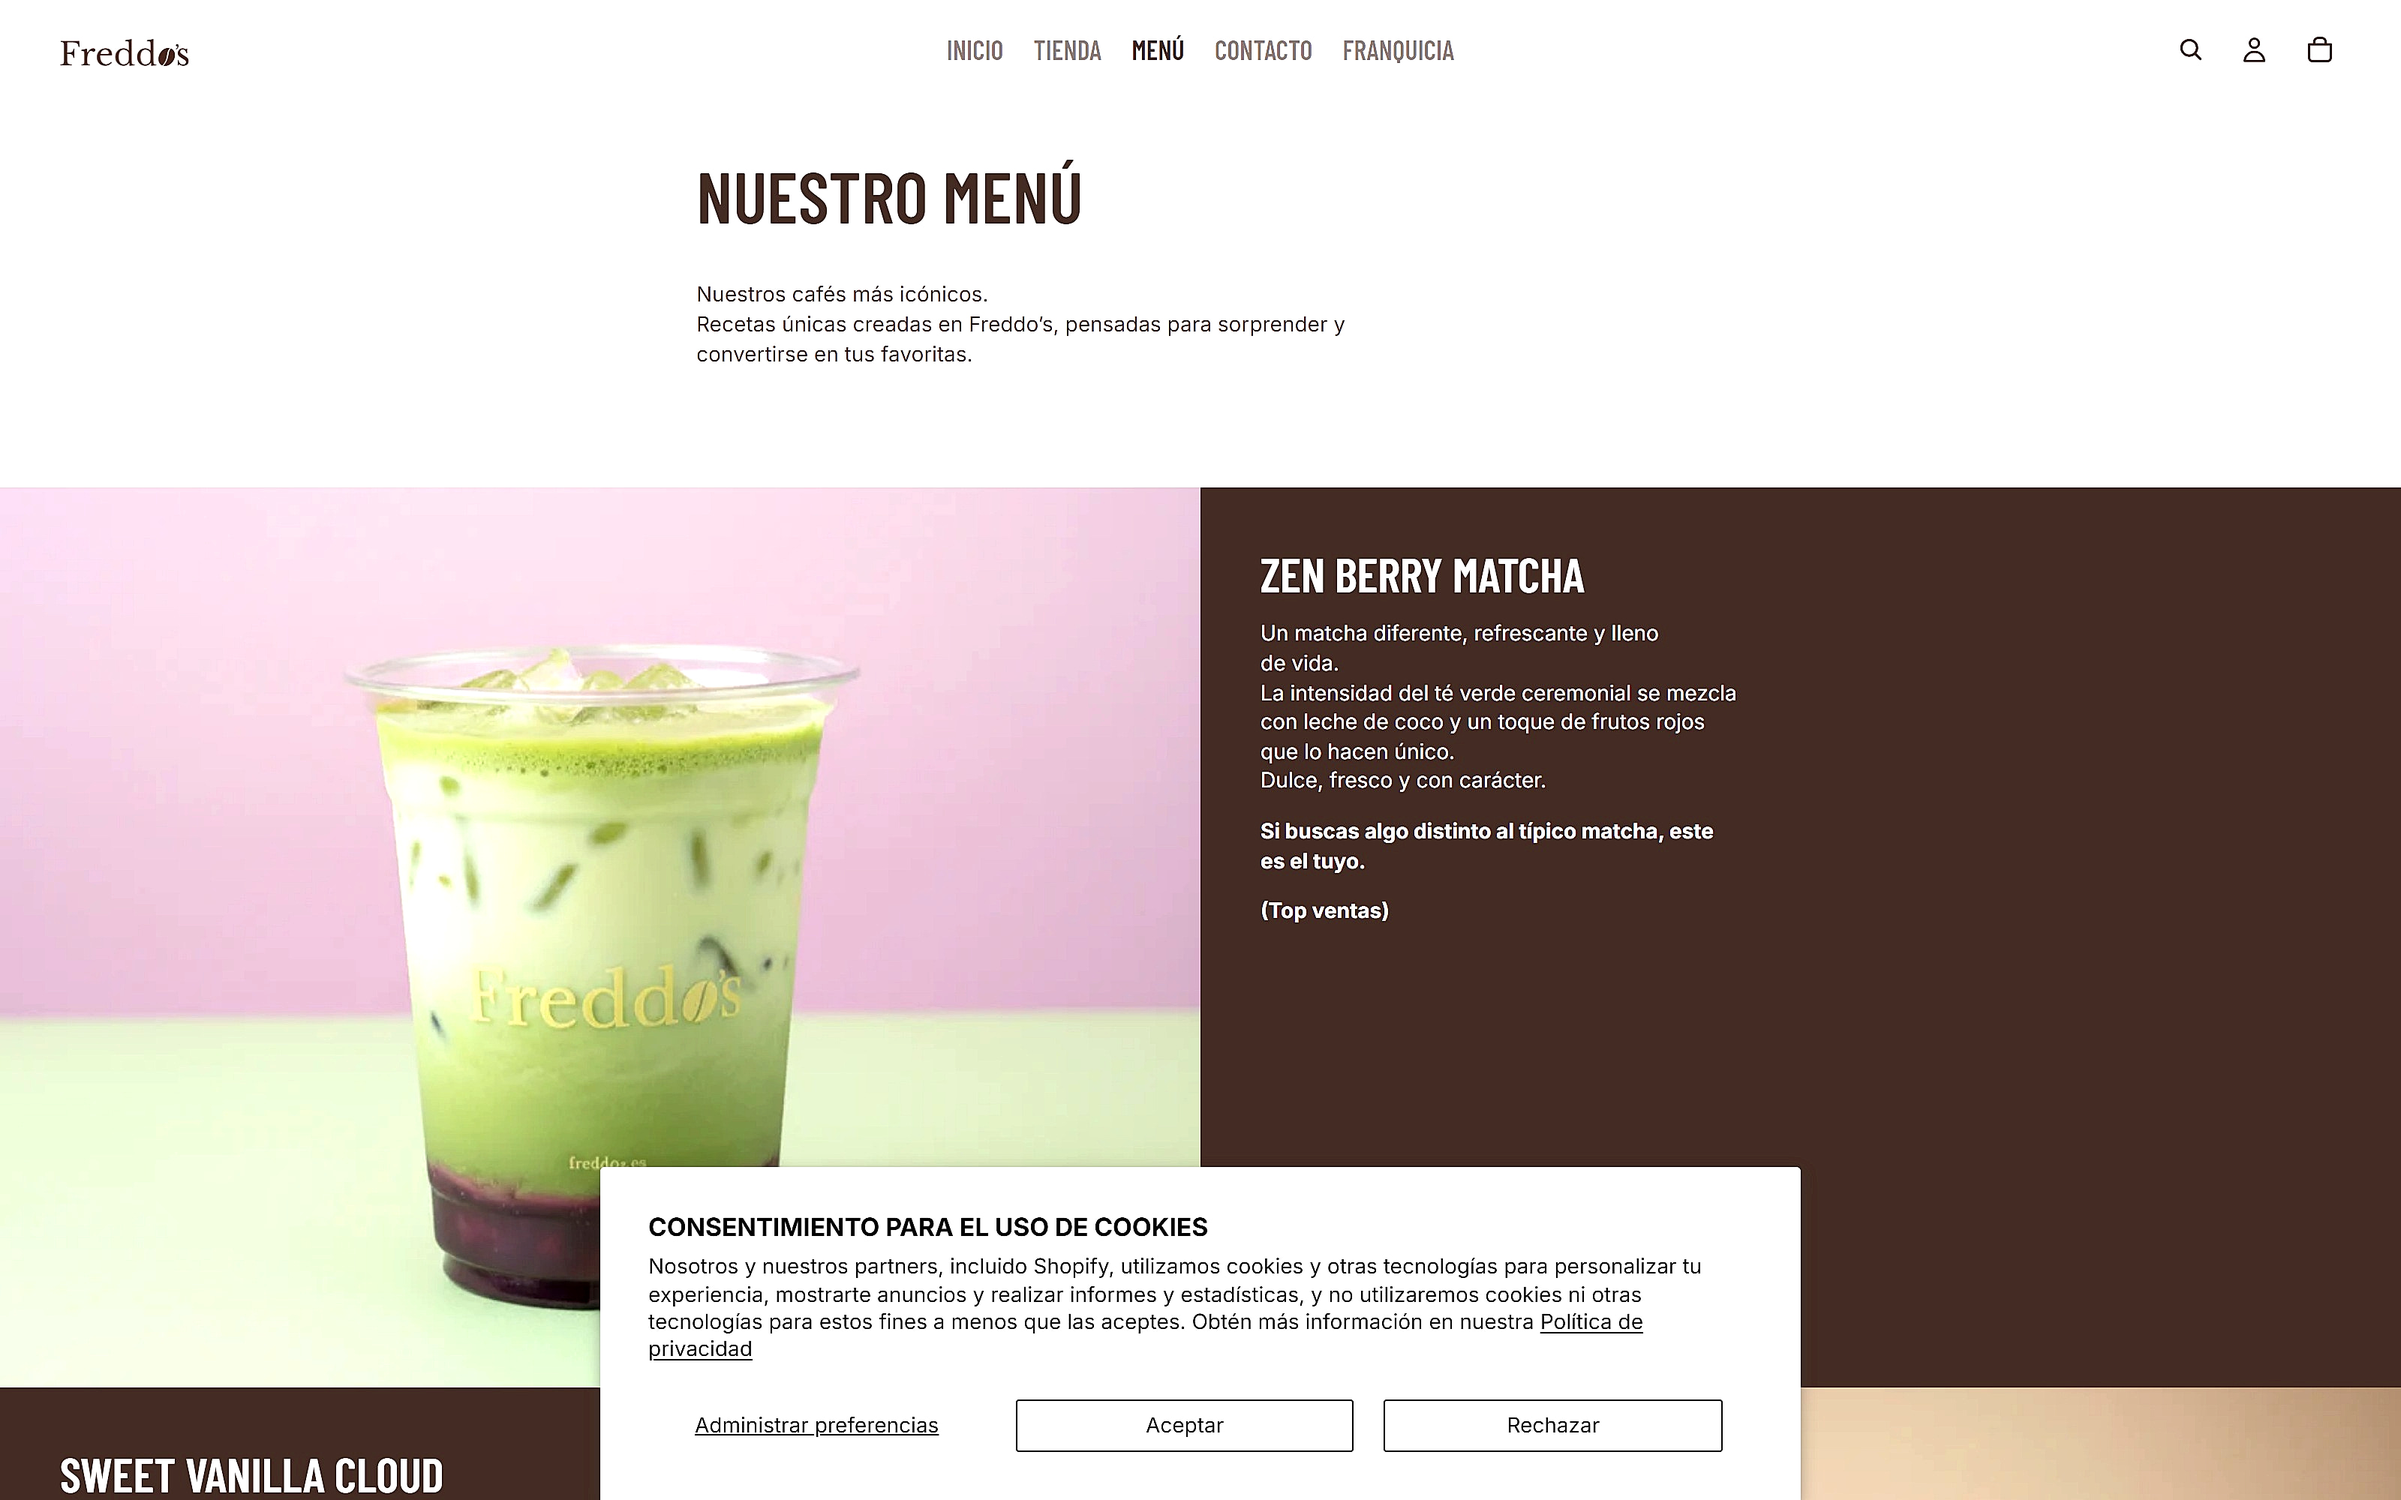
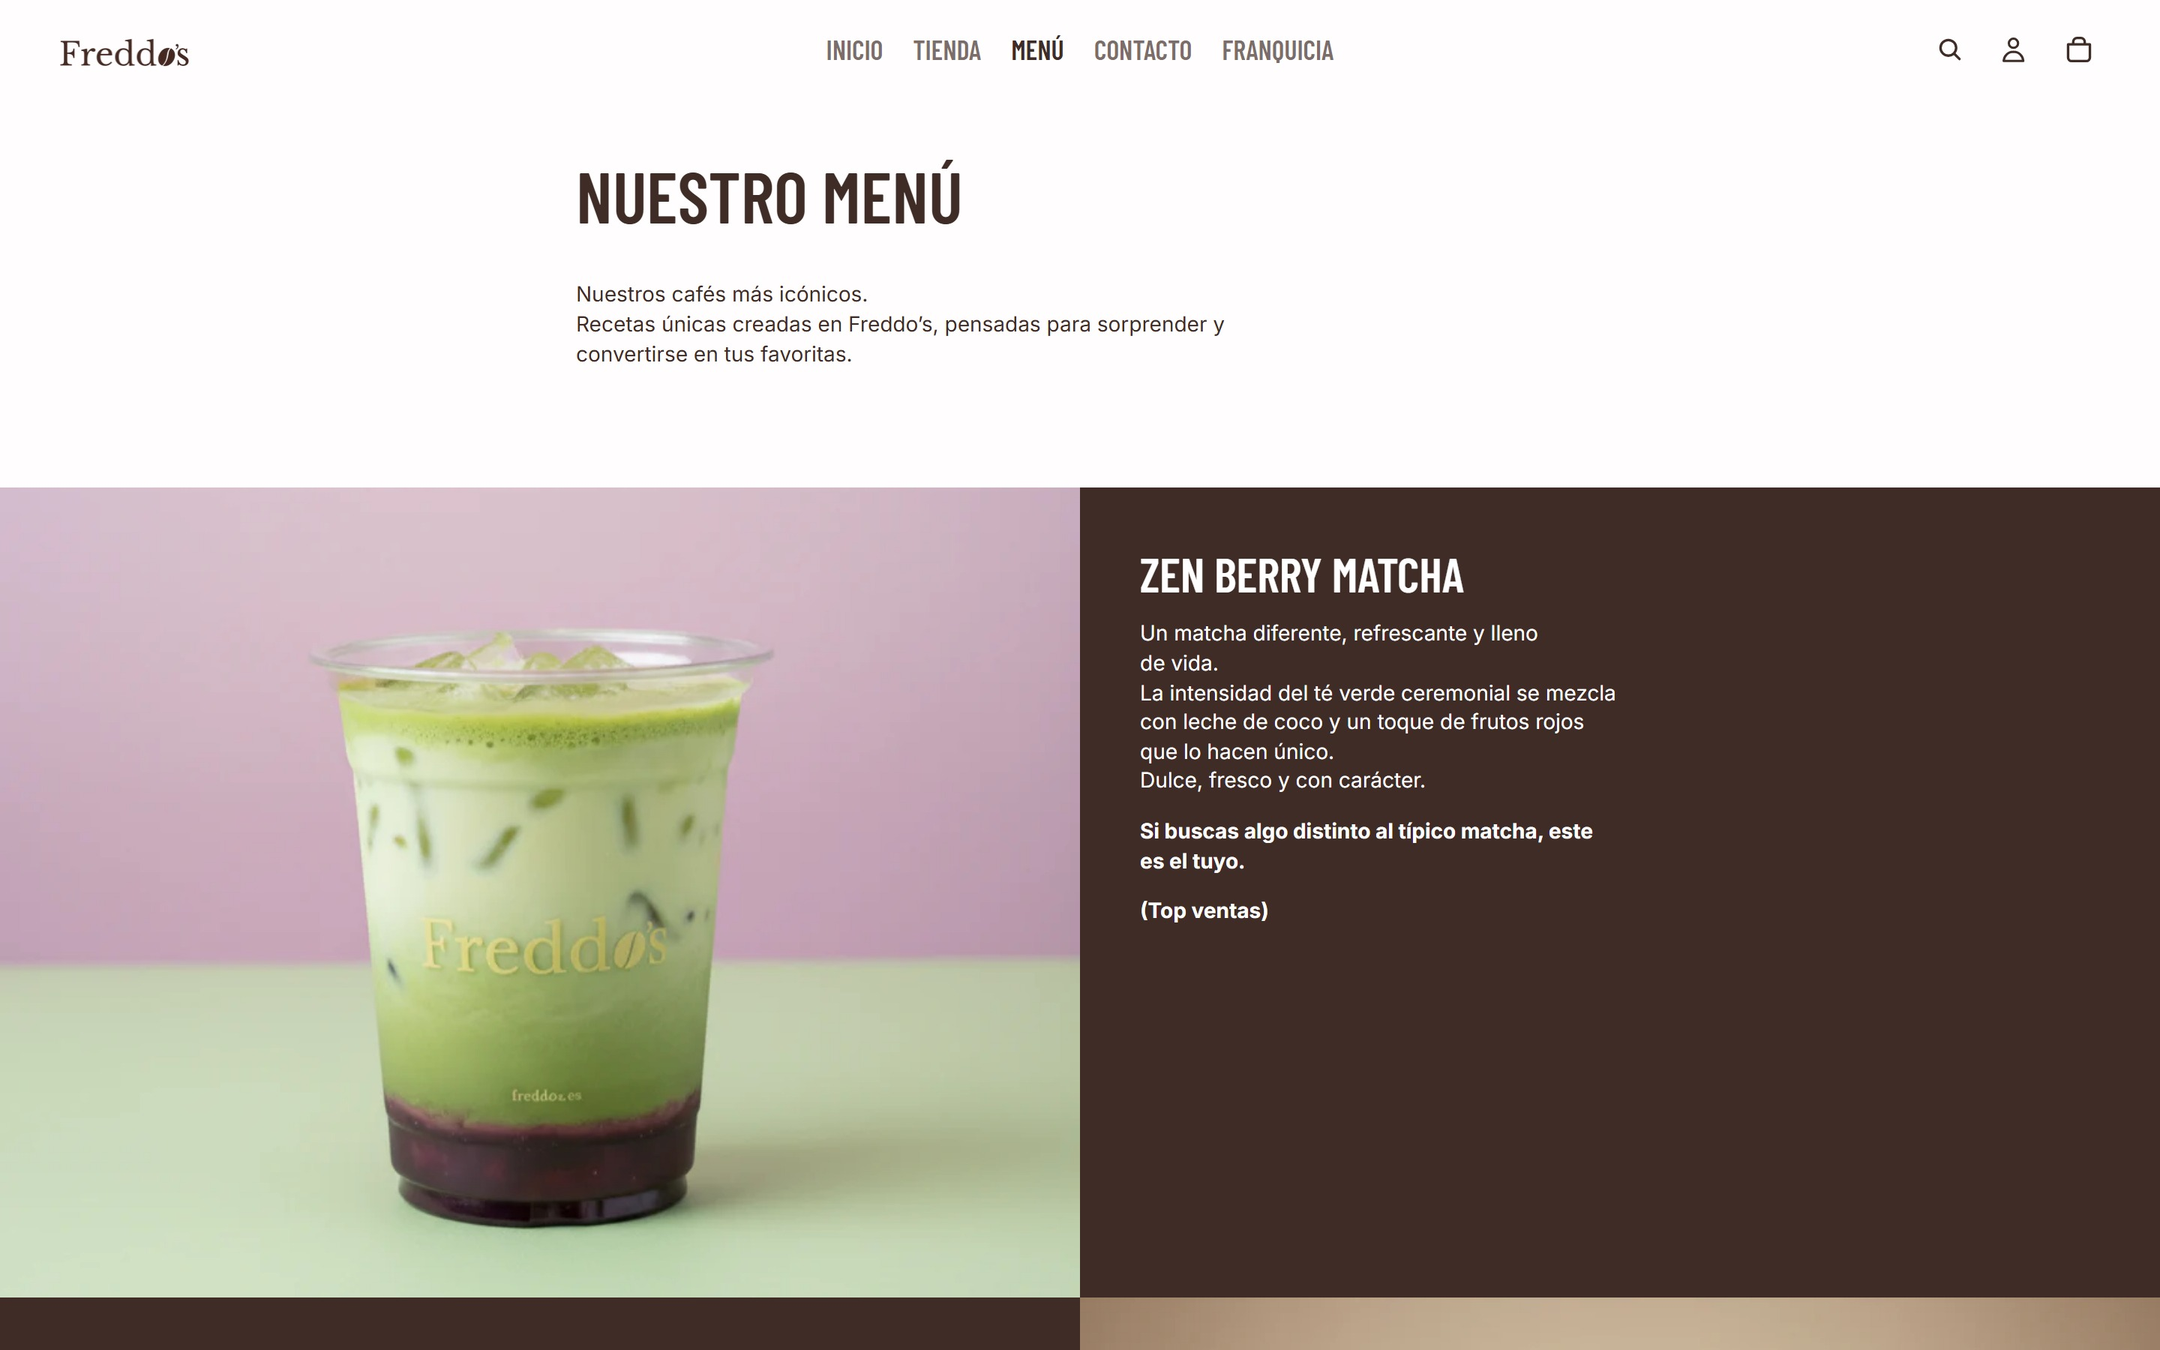
Stabilize Rafa and Freddos hero screen images.
Replace over-processed screenshots with clean captures and remove float animations and CSS filters that caused flicker.

diff --git a/src/styles.css b/src/styles.css
@@ -366,60 +366,24 @@
     padding-bottom: 0.15rem;
   }
 
-  /* Etusivu: Apple-tyylinen MacBook + iPhone, Freddos molemmissa */
+  /* Etusivu: Apple-tyylinen MacBook + iPhone, Freddos molemmissa — staattinen, ei float-animaatiota */
   .freddos-stage {
     perspective: 1400px;
   }
 
   .freddos-stage__laptop {
     transform: rotateY(-6deg) rotateX(4deg) rotateZ(-1.5deg);
-    animation: freddos-stage-float 7s ease-in-out infinite;
   }
 
   .freddos-stage__phone {
     transform: rotateY(6deg) rotateZ(-5deg);
     transform-origin: bottom center;
-    animation: freddos-stage-phone 7.5s ease-in-out infinite;
-  }
-
-  @keyframes freddos-stage-float {
-    0%,
-    100% {
-      transform: rotateY(-6deg) rotateX(4deg) rotateZ(-1.5deg) translateY(0);
-    }
-    50% {
-      transform: rotateY(-6deg) rotateX(4deg) rotateZ(-1.5deg) translateY(-6px);
-    }
-  }
-
-  @keyframes freddos-stage-phone {
-    0%,
-    100% {
-      transform: rotateY(6deg) rotateZ(-5deg) translateY(0);
-    }
-    50% {
-      transform: rotateY(6deg) rotateZ(-5deg) translateY(-3px);
-    }
   }
 
   @media (prefers-reduced-motion: reduce) {
     .freddos-stage__laptop,
     .freddos-stage__phone {
-      animation: none;
-    }
-  }
-
-  .websites-hero-laptop {
-    animation: websites-hero-float 7s ease-in-out infinite;
-  }
-
-  @keyframes websites-hero-float {
-    0%,
-    100% {
-      transform: translateY(0);
-    }
-    50% {
-      transform: translateY(-8px);
+      transform: none;
     }
   }
 
@@ -452,10 +416,6 @@
   }
 
   @media (prefers-reduced-motion: reduce) {
-    .websites-hero-laptop {
-      animation: none;
-    }
-
     .websites-dual-hero__left,
     .websites-dual-hero__right {
       transform: none;

diff --git a/src/components/freddos-devices-stage.tsx b/src/components/freddos-devices-stage.tsx
@@ -17,7 +17,8 @@ export function FreddosDevicesStage() {
             <img
               src={freddosHomeHero}
               alt=""
-              className="absolute inset-0 size-full scale-[1.06] object-cover object-[center_12%] brightness-[1.06] contrast-[1.08] saturate-[1.1]"
+              className="absolute inset-0 size-full object-cover object-[center_15%]"
+              draggable={false}
             />
           </div>
         </div>

diff --git a/src/components/websites-package-showcase.tsx b/src/components/websites-package-showcase.tsx
@@ -305,7 +305,8 @@ function HeroLaptop({
           <img
             src={screenSrc}
             alt={screenAlt}
-            className="absolute inset-0 size-full scale-[1.08] object-cover object-[center_18%] [image-rendering:auto] brightness-[1.06] contrast-[1.08] saturate-[1.08]"
+            className="absolute inset-0 size-full object-cover object-[center_12%]"
+            draggable={false}
           />
         </div>
       </div>
